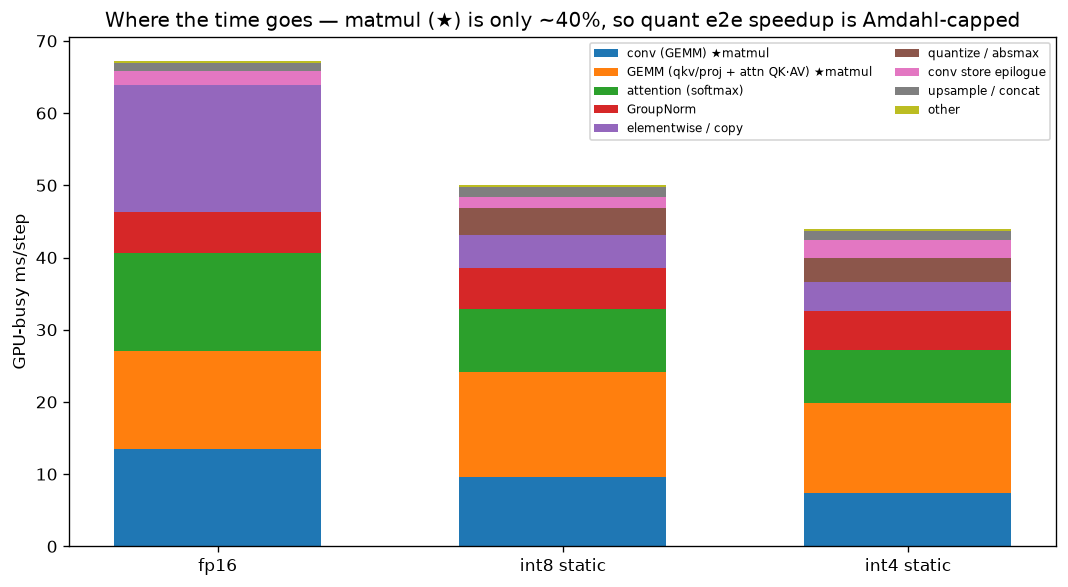
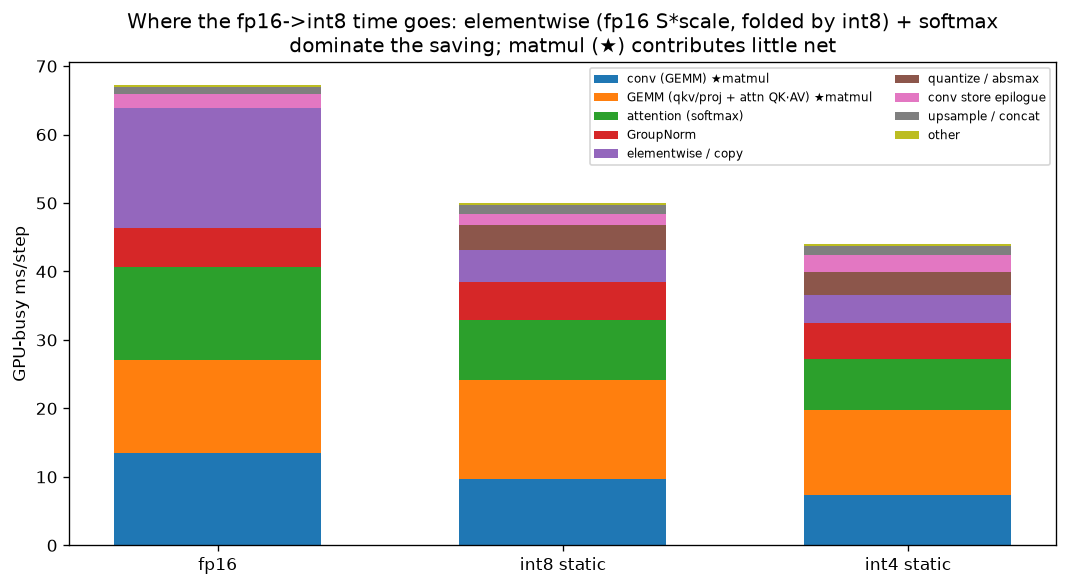
Fix incorrect §3 attribution: fp16->int8 win is the materialized S*scale fold, not matmul
Data review caught a real error. §3/TL;DR/verdict claimed the int8 e2e win over fp16 is
"conv-matmul, Amdahl-capped, non-matmul precision-invariant." Bucket decomposition of the actual
fp16->int8 saving (kernel_profile.csv) shows otherwise:
  elementwise -13.0 | softmax -4.8 | conv -3.9 | GEMM +1.0 | quantize +3.7  = net -17.2 ms
Matmul nets only ~2.9 ms of the 17.2. The dominant -13ms is the fp16 MATERIALIZED path's separate
S*scale pass over the T*T matrix (the 10.8ms AUnaryFunctor) which int8 FOLDS into its QKᵀ epilogue --
a materialized-fp16 artifact, not quantization compute. A scale-fused fp16 (SDPA) wouldn't pay it, so
vs SDPA-fp16 (~56ms) the int8 win is ~1.11x (int4 ~1.26x), matching the §1 caveat.

Rewrote §3 as an honest bucket decomposition; corrected TL;DR + verdict + the merged-bucket intro +
the 03_amdahl plot title. All other numbers re-verified against CSVs (roofline byte-math exact;
§1 speed, §4 IO, headline ratios all consistent). No code changes.

diff --git a/docs/quant_speedup_vs_fp16_2026-07-16/scripts/mkplots.py b/docs/quant_speedup_vs_fp16_2026-07-16/scripts/mkplots.py
@@ -65,7 +65,7 @@ if pf:
         lab = b + (" ★matmul" if "GEMM" in b else "")
         ax.bar(x, vals, 0.6, bottom=bot, label=lab, color=cmap(i % 10)); bot += np.array(vals)
     ax.set_xticks(x); ax.set_xticklabels([n for _, n in modes]); ax.set_ylabel("GPU-busy ms/step")
-    ax.set_title("Where the time goes — matmul (★) is only ~40%, so quant e2e speedup is Amdahl-capped")
+    ax.set_title("Where the fp16->int8 time goes: elementwise (fp16 S*scale, folded by int8) + softmax\ndominate the saving; matmul (★) contributes little net")
     ax.legend(fontsize=7, ncol=2); save(fig, "03_amdahl.png")
 
 # ---- 4. attention kernel micro: int8/int4 vs fp16 (static path) ----

diff --git a/docs/quant_speedup_vs_fp16_2026-07-16/REPORT.md b/docs/quant_speedup_vs_fp16_2026-07-16/REPORT.md
@@ -16,9 +16,13 @@ differs. A40, LSUN-churches LDM UNet, batch 32, DDIM, GPU-busy = torch.profiler 
   int GEMM can't beat cuBLAS fp16, and the attention QKᵀ/AV is materialized (memory-bound). Attention
   *in isolation* is faster in int (1.45× int8 / 1.71× int4 at T=1024), but bundled with the slow int
   linears the bucket is flat.
-- **The e2e win is Amdahl-capped.** Matmul is only ~40% of GPU time; the rest is softmax, GroupNorm,
-  elementwise, quantize overhead — so even free matmul would cap at ~1.7×, and quantization only
-  accelerates the conv slice of that 40%. This is why we see ~1.3–1.5×, not the textbook 2× / 4×.
+- **Most of the headline win is NOT quantization compute — it's the fp16 baseline being inefficient.**
+  Decomposing the fp16→int8 saving (§3): of the 17 ms, **13 ms is the elementwise `S*scale` pass** that
+  materialized fp16 runs separately and int8 folds into its QKᵀ epilogue; only ~2.9 ms is matmul. A
+  properly scale-fused fp16 (SDPA/flash-math) would not pay that pass, so **against SDPA-fp16 (~56 ms)
+  the int8 win is only ~1.11× (int4 ~1.26×)**. The pure precision gains (quantized conv + int8 attn
+  matmuls + int8 softmax) net modest after the +3.7 ms quantize overhead — the pipeline is memory-bound
+  (§7), so quantization can't reach the textbook 2×/4×.
 
 (Quality is out of scope for this speed report — see the static-vs-dynamic report for rel-err numbers.)
 
@@ -28,9 +32,11 @@ In the nsys/profiler bucketing, int8/int4 attention uses named kernels (`bmm_qk_
 so it lands in a separate **attn QKᵀ/AV** bucket, while fp16 attention is `torch.bmm` (cuBLAS) and gets
 lumped into **conv/linear GEMM**. So fp16's attention matmul is *hidden* inside its conv/linear bar,
 making the fp16 GEMM bar look bigger and the int bars look smaller. **It is not that quantization made
-the GEMM shrink for free** — you must add the two matmul buckets. All tables below use the merged
-matmul view (torch.profiler's `GEMM (qkv/proj + attn QK·AV)` already merges attention with qkv/proj,
-and `conv (GEMM)` is separate), which *is* comparable across precisions.
+the GEMM shrink for free** — you must add the two matmul buckets. The e2e profiler tables here use the
+merged matmul view (torch.profiler's `GEMM (qkv/proj + attn QK·AV)` merges attention with qkv/proj,
+`conv (GEMM)` separate), which *is* comparable across precisions; **§2 additionally splits attention out
+via an isolated per-op micro-benchmark** (fp16's attn matmul can't be name-split inside the pipeline, so
+that split is measured standalone).
 
 ## 1. E2E speedup (GPU-busy ms/step, `clean_speed.csv`)
 
@@ -85,15 +91,36 @@ int qkv/proj linear.
 
 ![Attention op-by-op speedup](02b_attn_ops.png)
 
-## 3. Why not 2× / 4×? — Amdahl (`kernel_profile.csv`)
+## 3. Where the fp16→int8 e2e time actually goes (`kernel_profile.csv`)
 
-Matmul (conv + qkv/proj + attn) is only ~40% of fp16 GPU time (27 of 67 ms). The remaining ~60% —
-softmax, GroupNorm, elementwise, quantize/absmax — is memory/elementwise-bound and largely
-precision-invariant (quantization even *adds* a quantize/absmax bucket). So the e2e ceiling from
-matmul alone is ~1.7×, and since quantization only accelerates the **conv** part of the matmul, the
-realized 1.33× (int8) / 1.51× (int4) is consistent with the roofline, not a shortfall of the kernels.
+Decomposing the static_int8 e2e win over materialized fp16 by bucket (ms/step) shows it is **not**
+matmul-driven — the matmul saves only 2.9 of the 17.2 ms:
 
-![Amdahl breakdown](03_amdahl.png)
+| bucket | fp16 | int8 | Δ save |
+|---|--:|--:|--:|
+| elementwise / copy | 17.60 | 4.62 | **+12.98** |
+| attention (softmax) | 13.58 | 8.80 | +4.78 |
+| conv (GEMM) | 13.49 | 9.63 | +3.86 |
+| GEMM (qkv/proj + attn) | 13.55 | 14.51 | −0.96 |
+| quantize / absmax | 0.00 | 3.67 | −3.67 |
+| GroupNorm / store / other | ~7.7 | ~7.5 | ~0 |
+| **total** | **67.2** | **50.0** | **17.2** |
+
+The **dominant term is elementwise (−13 ms)** — and it is almost entirely the **fp16 materialized path's
+separate `S*scale` pass** over the T×T matrix (the 10.8 ms `AUnaryFunctor`, §7), which the int8 path
+**folds into its QKᵀ epilogue**. Next are softmax (−4.8, int8 static 1-pass + int8 P) and conv (−3.9,
+quantized conv), partly given back by the added quantize bucket (+3.7). Matmul contributes little net
+(conv −3.9, but the qkv/proj+attn bucket +1.0).
+
+**Important honesty caveat:** the elementwise `S*scale` fold is an advantage over *materialized* fp16,
+which is an inefficient baseline (a properly-fused fp16 like SDPA/flash-math applies the scale for free).
+So most of the headline 1.33× is the materialized-fp16 baseline paying a pass that neither int8 **nor a
+good fp16 impl** would. **Against scale-fused fp16 (SDPA, ~56 ms) the int8 win is only ~1.11×** (int4
+~1.26×; §1 caveat). The genuine, precision-only savings (quantized conv + int8 attention matmuls + int8
+softmax P) net to a modest amount after the +3.7 ms quantize overhead — consistent with the pipeline
+being memory-bound (§7), not a kernel shortfall.
+
+![e2e time decomposition](03_amdahl.png)
 
 ## 4. Memory & IO (static configs)
 
@@ -236,10 +263,14 @@ fusion helps here, consistent with §6a's neutral e2e result.
 
 ## Verdict
 
-- **int8/int4 do beat fp16** (1.33× / 1.51× e2e, precision-isolated) — the desired speedup is real.
-- **It's a conv win, capped by Amdahl.** Conv quantization gives 1.4×/1.8×; the qkv/proj-linear +
-  materialized-attention matmul doesn't improve *as deployed*, and matmul is only ~40% of the pipeline
-  — so e2e lands at ~1.3–1.5×, not 2×/4×.
+- **int8/int4 beat the *materialized* fp16 baseline** (1.33× / 1.51× e2e) — but see the next point on
+  what that number really is.
+- **Most of that headline is the fp16 baseline being inefficient, not quantization compute (§3).** The
+  fp16→int8 saving (17 ms) is **13 ms elementwise** (the materialized `S*scale` pass int8 folds into its
+  QKᵀ epilogue) + 4.8 ms softmax + 3.9 ms conv − 3.7 ms quantize overhead; matmul nets only ~2.9 ms.
+  **Against a scale-fused fp16 (SDPA, ~56 ms) the int8 win is only ~1.11× (int4 ~1.26×).** The
+  genuine precision gains (quantized conv 1.4–1.8×, int8 attn matmuls ~2×, int8 softmax) are real but
+  Amdahl/memory-bound-limited (§7).
 - **The kernels aren't the bottleneck; the plumbing is (§5).** Kernel-only, AWQ w8a8 and w4a4 already
   beat fp16 for K≥384 (up to 1.4–1.6×); the deployed linears lose only to per-call quantize/fp16-dequant
   overhead. Switch W8A8 to AWQ (faster than our gemm_w8a8 on every shape). C192 (K=192) stays hard.
